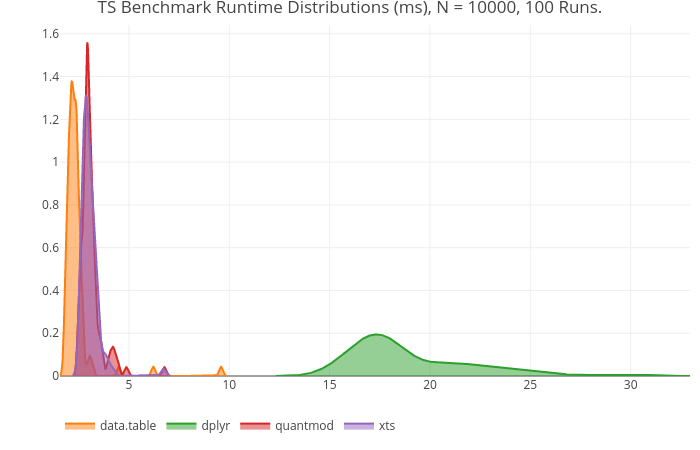
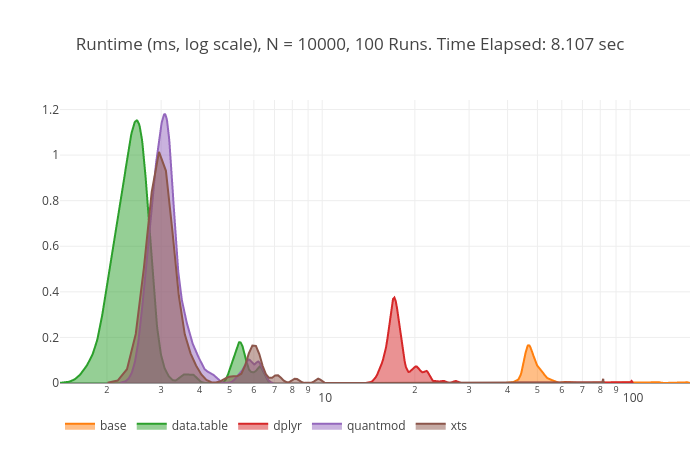
added base and 1e3 runtime

diff --git a/README.md b/README.md
@@ -12,6 +12,7 @@
 - xts
 - data.table
 - dplyr
+- base
 - quantmod
 
 ### Hardware
@@ -20,6 +21,9 @@
 - Ubuntu 18.04 LTS
 
 ### Results
+
+<img src="./1e3.png" height="450" width="700">
+
 <img src="./1e4.png" height="450" width="700">
 
 <img src="./1e5.png" height="450" width="700">
